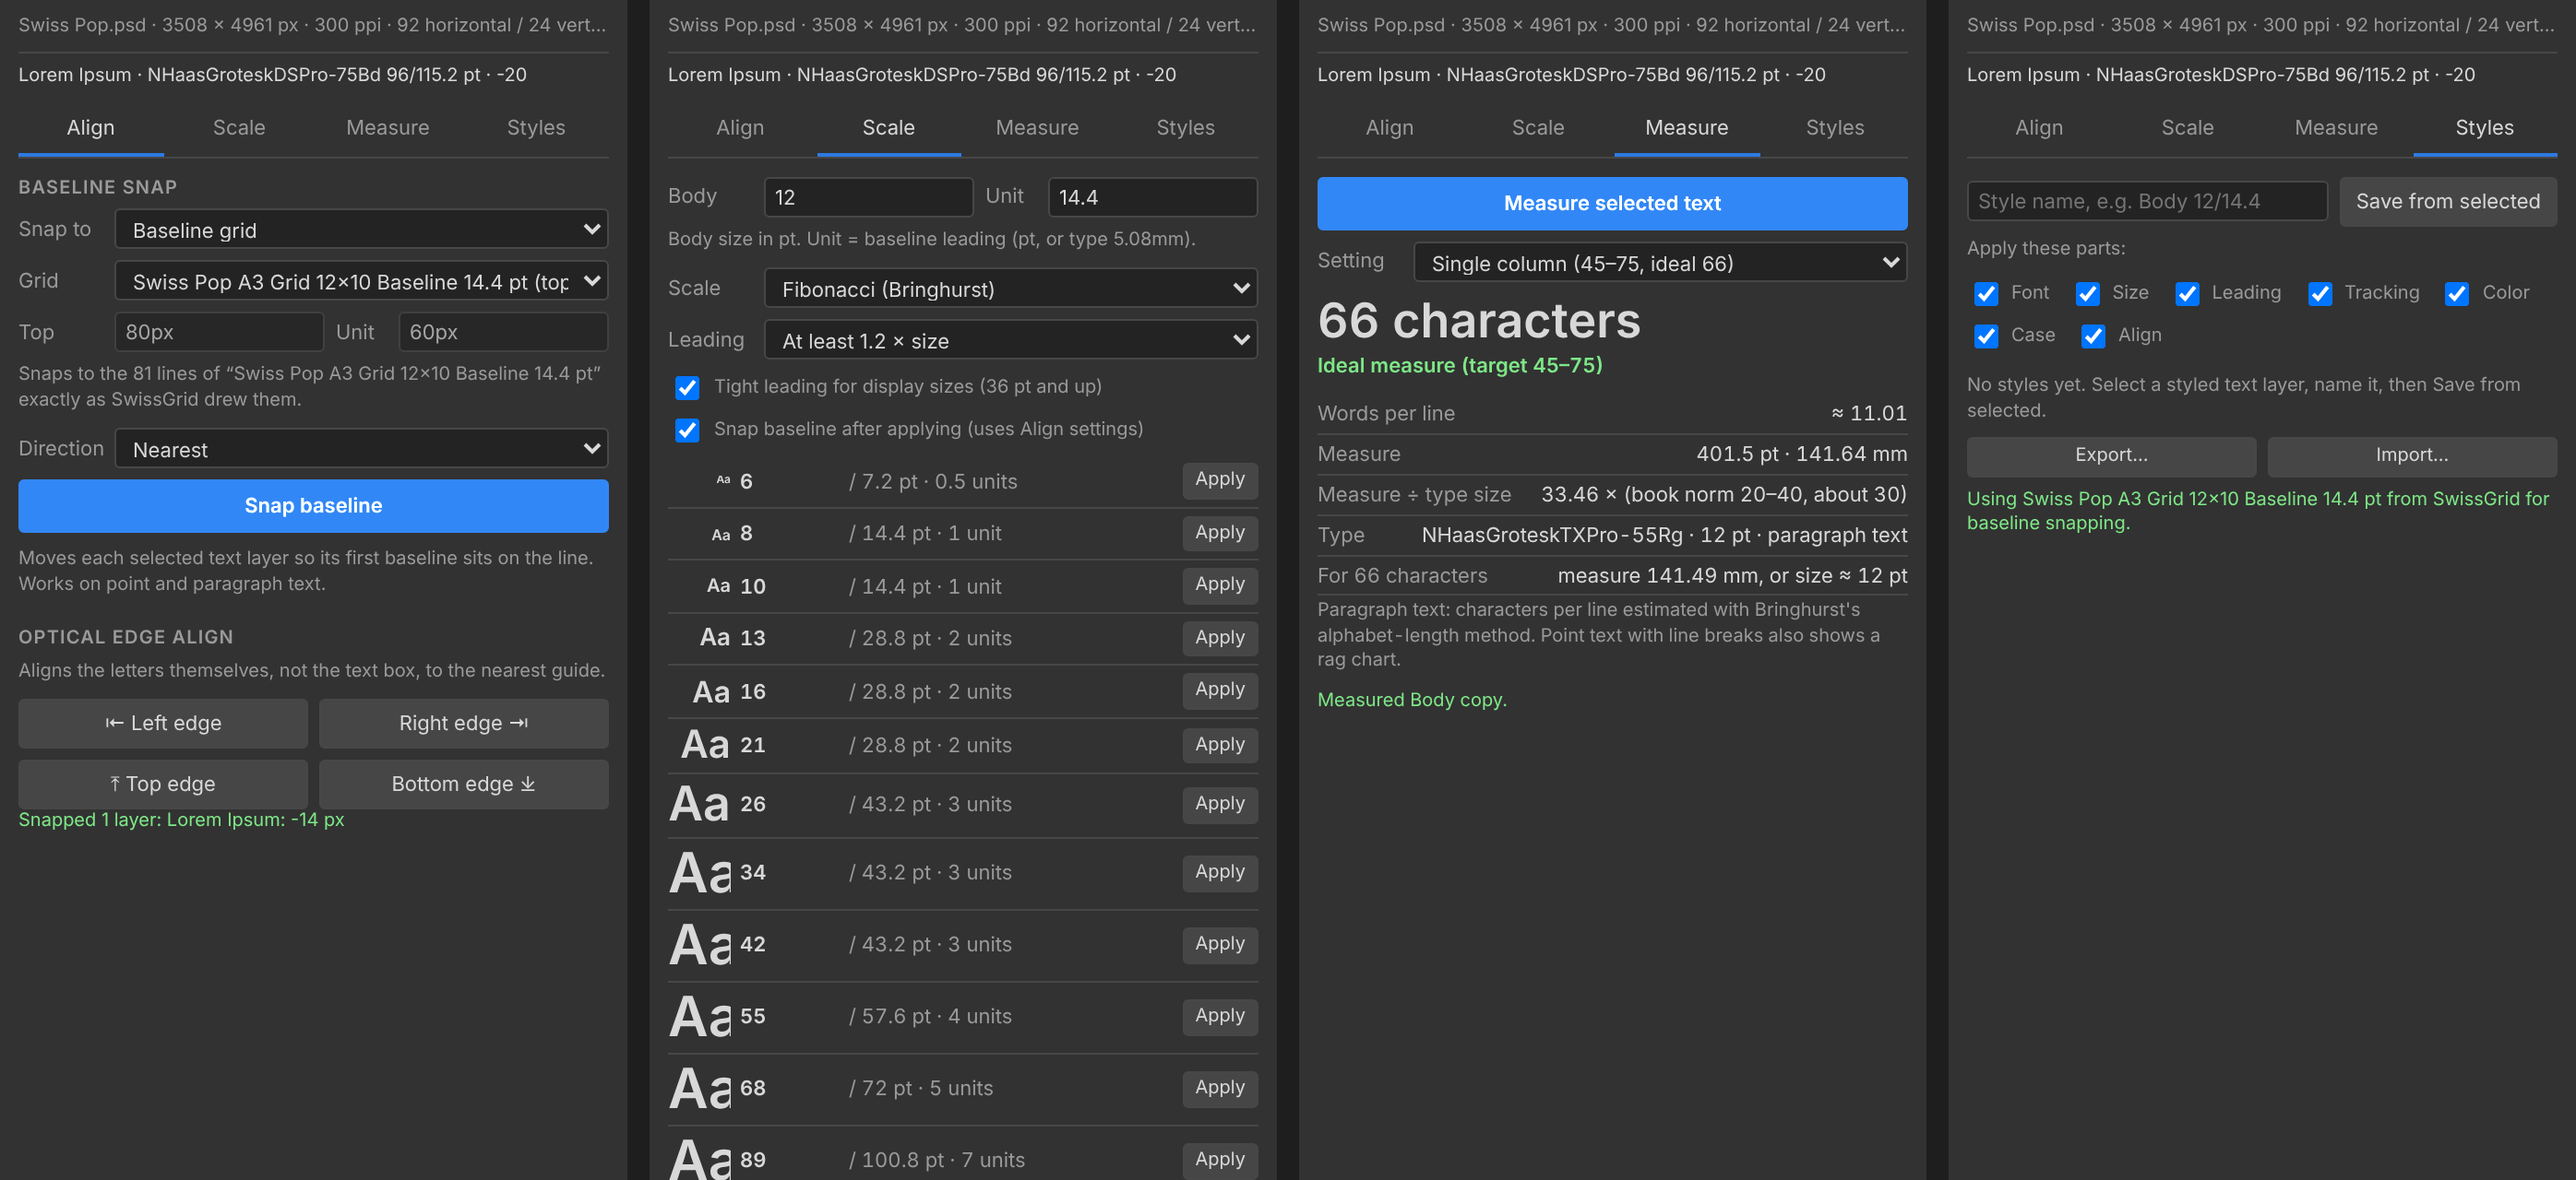
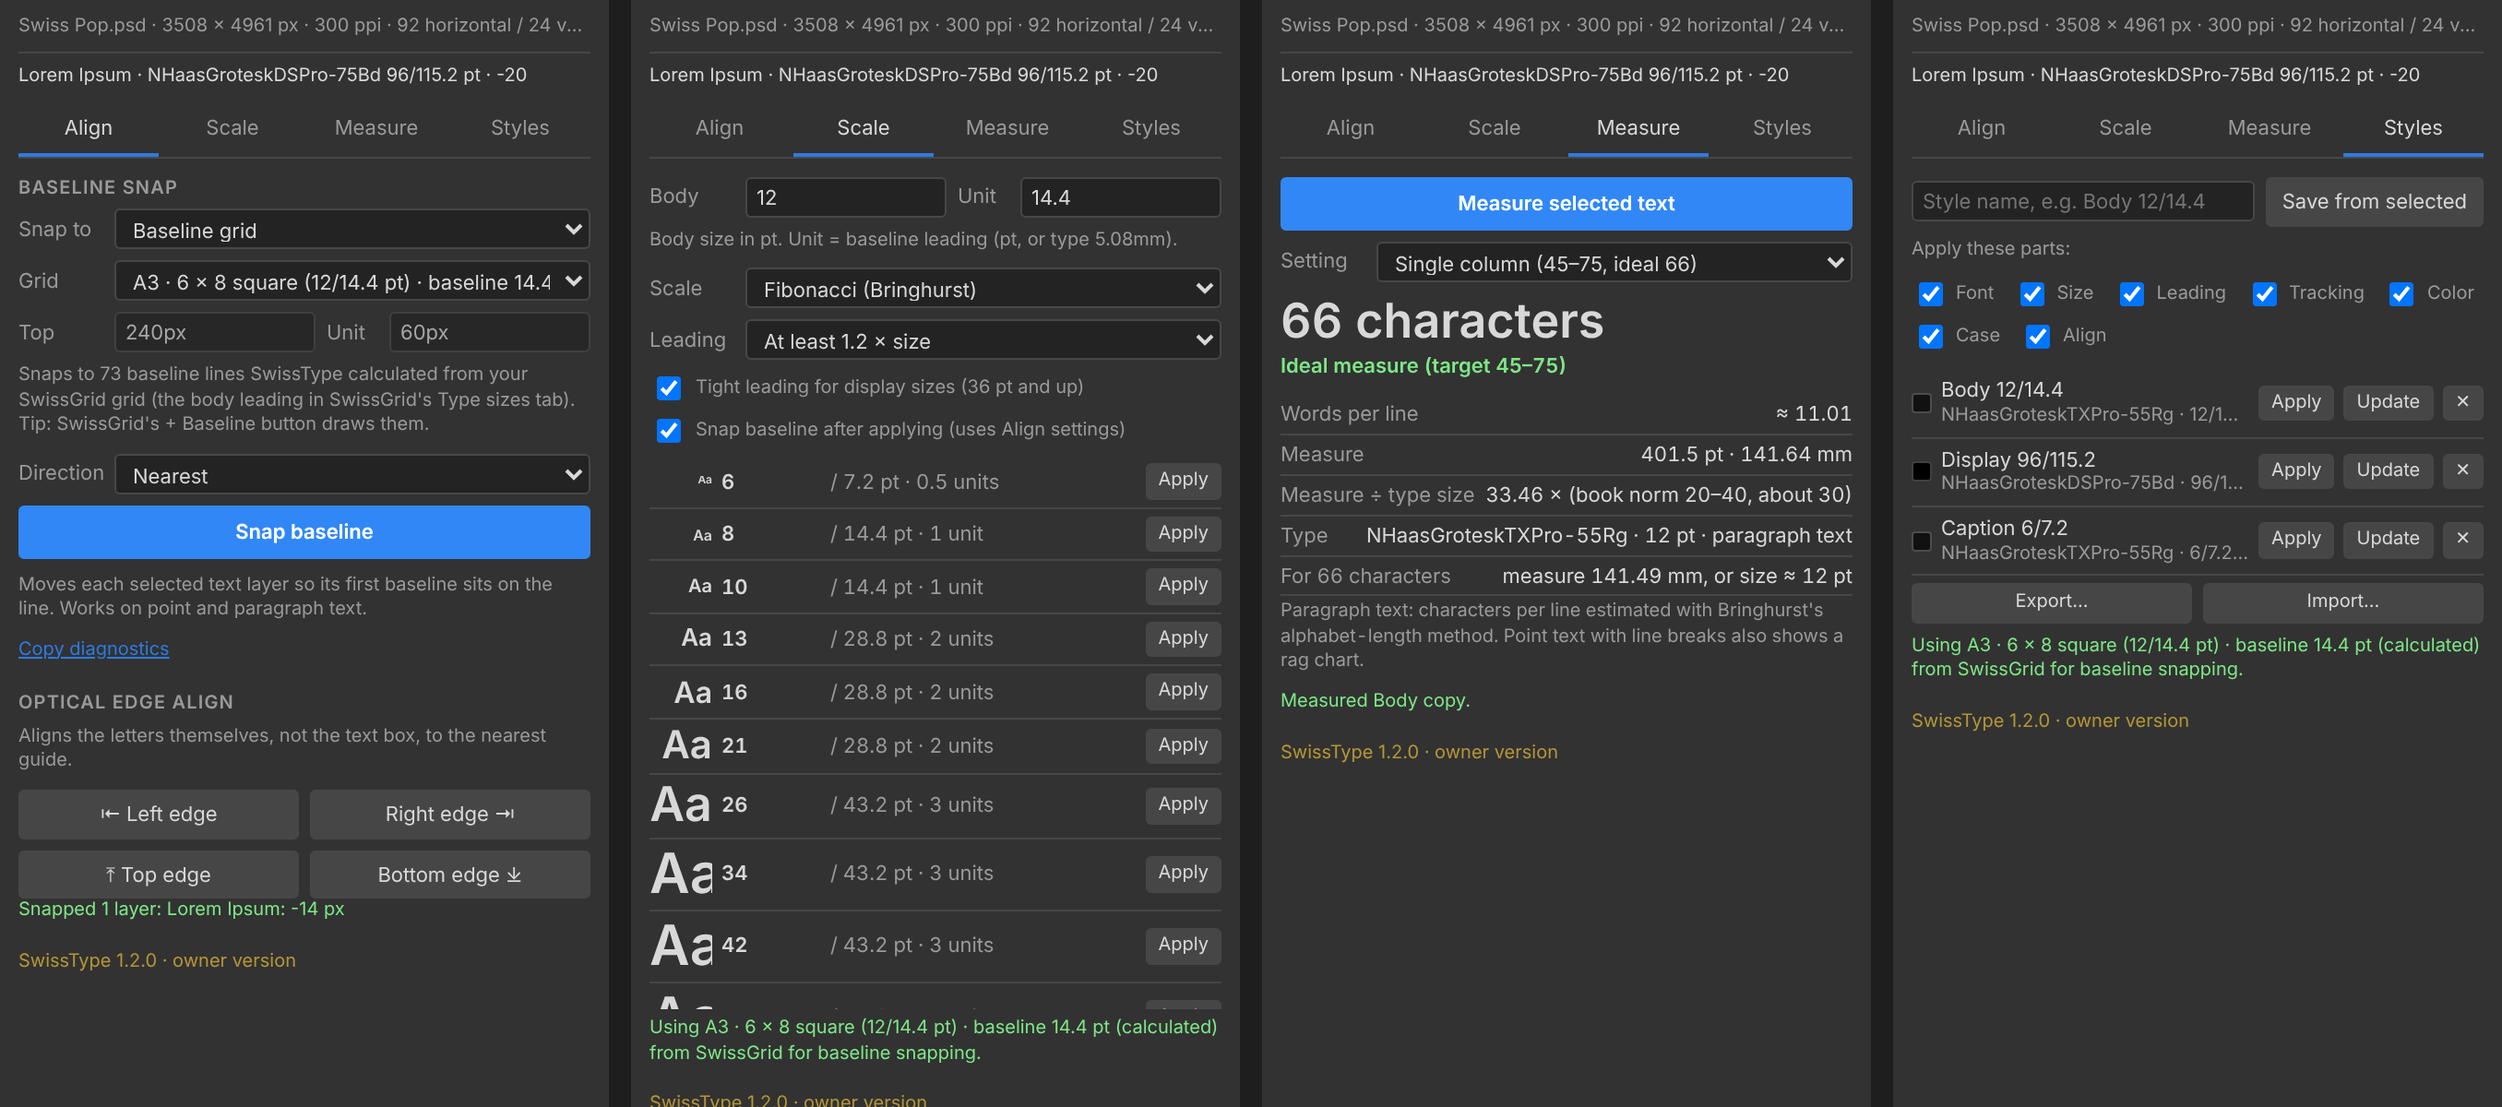
SwissGrid & SwissType 1.2.0: canvas-aware grid suggestions, grouped presets (Classic, Golden ratio & Fibonacci, Letter, A2-A5), tabbed SwissGrid, SwissType calculated baselines, new screenshots and full feature list

diff --git a/SwissGrid/SwissGrid/js/license-config.js b/SwissGrid/SwissGrid/js/license-config.js
@@ -5,11 +5,25 @@
  */
 window.SWISS_LICENSE_CONFIG = {
   product: "SwissGrid",
-  productId: "PASTE_SWISSGRID_PRODUCT_ID",          // the SwissGrid product on Gumroad
-  bundleProductId: "PASTE_BUNDLE_PRODUCT_ID",   // the Swiss Bundle product (same in both panels)
-  buyUrl: "https://YOUR-NAME.gumroad.com/l/swissgrid",
-  bundleUrl: "https://YOUR-NAME.gumroad.com/l/swiss-bundle",
-  supportEmail: "your support email",
+  productId: "kqyu7hBACgRNcyNks3CzPA==",          // the SwissGrid product on Gumroad
+  bundleProductId: "nfVe93Lt6itL4vL1wmalSQ==",   // the Swiss Bundle product (same in both panels)
+  buyUrl: "https://jmartgraphics.gumroad.com/l/swissgrid",
+  bundleUrl: "https://jmartgraphics.gumroad.com/l/swiss-bundle",
+  supportEmail: "jmartgraphics via Gumroad",
   maxActivations: 3                              // computers per key (first activation on each computer counts once)
 };
-SwissLicense.start(window.SWISS_LICENSE_CONFIG);
+// Licensing switch. OFF = owner version: everything unlocked, no key, no expiry.
+// Turn ON only when selling (the release builder does this for the Gumroad downloads).
+var SWISS_LICENSING_ON = false;
+
+if (SWISS_LICENSING_ON) {
+  SwissLicense.start(window.SWISS_LICENSE_CONFIG);
+} else {
+  (function () {
+    var v = "1.2.0";
+    var n = document.createElement("div");
+    n.textContent = "SwissGrid " + v + " \u00b7 owner version";
+    n.style.cssText = "font-size:10px;color:#d4af37;margin-top:14px;opacity:0.8";
+    (document.querySelector(".panel") || document.body).appendChild(n);
+  })();
+}

diff --git a/SwissType/SwissType/js/license-config.js b/SwissType/SwissType/js/license-config.js
@@ -5,11 +5,25 @@
  */
 window.SWISS_LICENSE_CONFIG = {
   product: "SwissType",
-  productId: "PASTE_SWISSTYPE_PRODUCT_ID",          // the SwissType product on Gumroad
-  bundleProductId: "PASTE_BUNDLE_PRODUCT_ID",   // the Swiss Bundle product (same in both panels)
-  buyUrl: "https://YOUR-NAME.gumroad.com/l/swisstype",
-  bundleUrl: "https://YOUR-NAME.gumroad.com/l/swiss-bundle",
-  supportEmail: "your support email",
+  productId: "5-grbgTq-z8ghlWoBD5eVw==",          // the SwissType product on Gumroad
+  bundleProductId: "nfVe93Lt6itL4vL1wmalSQ==",   // the Swiss Bundle product (same in both panels)
+  buyUrl: "https://jmartgraphics.gumroad.com/l/swisstype",
+  bundleUrl: "https://jmartgraphics.gumroad.com/l/swiss-bundle",
+  supportEmail: "jmartgraphics via Gumroad",
   maxActivations: 3                              // computers per key (first activation on each computer counts once)
 };
-SwissLicense.start(window.SWISS_LICENSE_CONFIG);
+// Licensing switch. OFF = owner version: everything unlocked, no key, no expiry.
+// Turn ON only when selling (the release builder does this for the Gumroad downloads).
+var SWISS_LICENSING_ON = false;
+
+if (SWISS_LICENSING_ON) {
+  SwissLicense.start(window.SWISS_LICENSE_CONFIG);
+} else {
+  (function () {
+    var v = "1.2.0";
+    var n = document.createElement("div");
+    n.textContent = "SwissType " + v + " \u00b7 owner version";
+    n.style.cssText = "font-size:10px;color:#d4af37;margin-top:14px;opacity:0.8";
+    (document.querySelector(".panel") || document.body).appendChild(n);
+  })();
+}

diff --git a/release/build_release.py b/release/build_release.py
@@ -1,5 +1,6 @@
 """
-Builds the three Gumroad downloads with your real product IDs.
+Builds the three Gumroad downloads (licensing switched ON) with your real product IDs.
+The source itself stays the owner version (licensing OFF) until you decide to sell.
 
 1. Fill in release_config.json (product IDs, links, support email).
 2. Run:  python build_release.py
@@ -8,12 +9,10 @@ Builds the three Gumroad downloads with your real product IDs.
 """
 import json, os, re, shutil, stat, sys, zipfile
 
-GOLD = "--gold" in sys.argv   # owner build: no license key, everything unlocked
 
 HERE = os.path.dirname(os.path.abspath(__file__))
 cfg = json.load(open(os.path.join(HERE, "release_config.json"), encoding="utf-8"))
 for k in ("swissgrid_product_id", "swisstype_product_id", "bundle_product_id", "support_email"):
-    if GOLD: break
     if not cfg.get(k) or cfg[k].startswith("PASTE"):
         raise SystemExit("Fill in '%s' in release_config.json first." % k)
 
@@ -41,15 +40,10 @@ def stage_panel(name):
     t = re.sub(r'bundleUrl: "[^"]*"', 'bundleUrl: "%s"' % cfg.get("bundle_url", ""), t)
     t = re.sub(r'supportEmail: "[^"]*"', 'supportEmail: "%s"' % cfg["support_email"], t)
     t = re.sub(r'maxActivations: \d+', 'maxActivations: %d' % int(cfg.get("max_activations", 3)), t)
-    if GOLD:
-        t = t.replace("SwissLicense.start(window.SWISS_LICENSE_CONFIG);", """// GOLD OWNER BUILD: licensing is switched off. Everything is unlocked, no key, no expiry.
-(function () {
-  var n = document.createElement("div");
-  n.textContent = "%s %s Gold \\u00b7 owner build";
-  n.style.cssText = "font-size:10px;color:#d4af37;margin-top:14px;opacity:0.8";
-  (document.querySelector(".panel") || document.body).appendChild(n);
-})();""" % (name, VER))
-        assert "GOLD OWNER BUILD" in t
+    # Selling build: switch licensing on (the source in the repo has it off).
+    t = t.replace("var SWISS_LICENSING_ON = false;", "var SWISS_LICENSING_ON = true;")
+    t = t.replace(" \\u00b7 owner version", "")
+    assert "var SWISS_LICENSING_ON = true;" in t
     open(conf, "w", encoding="utf-8", newline="\n").write(t)
     return dst
 
@@ -74,10 +68,7 @@ def zip_dirs(zip_name, top, folders, flatten=False):
 
 grid = stage_panel("SwissGrid")
 typ = stage_panel("SwissType")
-if GOLD:
-    zip_dirs("Swiss-Tools-GOLD-%s.zip" % VER, "Swiss Tools GOLD %s" % VER, [grid, typ])
-else:
-    zip_dirs("SwissGrid-%s.zip" % VER, "SwissGrid", [grid], flatten=True)
-    zip_dirs("SwissType-%s.zip" % VER, "SwissType", [typ], flatten=True)
-    zip_dirs("Swiss-Bundle-%s.zip" % VER, "Swiss Bundle", [grid, typ])
+zip_dirs("SwissGrid-%s.zip" % VER, "SwissGrid", [grid], flatten=True)
+zip_dirs("SwissType-%s.zip" % VER, "SwissType", [typ], flatten=True)
+zip_dirs("Swiss-Bundle-%s.zip" % VER, "Swiss Bundle", [grid, typ])
 shutil.rmtree(STAGE)

diff --git a/README.md b/README.md
@@ -4,7 +4,7 @@
 
 Built by Joseph Martinez (J.A.M.), grounded in Josef Müller-Brockmann's *Grid Systems in Graphic Design* and Robert Bringhurst's *The Elements of Typographic Style*.
 
-**Current version: 1.2.0 Gold** (owner build, no license key). See [CHANGELOG.md](CHANGELOG.md).
+**Latest version: 1.2.0.** Everything is unlocked: no license key, no expiry. This repository is the installable version: download it and run the installers. What's new: [CHANGELOG.md](CHANGELOG.md).
 
 | | |
 |---|---|
@@ -17,7 +17,7 @@ Built by Joseph Martinez (J.A.M.), grounded in Josef Müller-Brockmann's *Grid S
 
 ## SwissGrid
 
-![SwissGrid: Grid, Type sizes and Presets tabs](docs/images/swissgrid-tabs.png)
+![SwissGrid: Grid, Type sizes, Document and Presets tabs](docs/images/swissgrid-tabs.png)
 
 SwissGrid is organized in four tabs so every control stays near the top of the panel: **Grid**, **Type sizes**, **Document** and **Presets**.
 
@@ -130,7 +130,7 @@ They appear under **Window > Extensions (legacy)**, not the **Plugins** menu: Ph
 
 To update, run the installer again: it replaces the old copy. To remove, run the matching `Uninstall-*` file.
 
-**Gold owner build:** `python release/build_release.py --gold` builds `Swiss-Tools-GOLD-<version>.zip` with licensing switched off (no key, no expiry).
+There is one version: what's in this repository. Licensing is a single switch, `SWISS_LICENSING_ON` in each panel's `js/license-config.js`, and it is **off**.
 
 ### Troubleshooting
 
@@ -143,7 +143,7 @@ To update, run the installer again: it replaces the old copy. To remove, run the
 
 ## Selling later (Gumroad)
 
-The release builder also makes the Gumroad downloads (SwissGrid, SwissType and the Swiss Bundle) with license keys checked against Gumroad's license API: a SwissGrid or SwissType key unlocks its panel, a Bundle key unlocks both, keys work on up to 3 computers, re-check monthly and work offline for 14 days. Fill in `release/release_config.json` and run `python release/build_release.py`. This is switched off in the Gold build.
+Not shipping yet. When it's time, `python release/build_release.py` makes the three Gumroad downloads (SwissGrid, SwissType and the Swiss Bundle) with the licensing switch turned **on**: keys are checked against Gumroad's license API, a SwissGrid or SwissType key unlocks its panel, a Bundle key unlocks both, keys work on up to 3 computers, re-check monthly and work offline for 14 days. The code in this repository stays unlocked.
 
 ---
 
@@ -162,7 +162,7 @@ SwissGrid/
     js/suggest.js         canvas detection and grid suggestions
     js/gridstore.js       grids shared with SwissType
     js/cepfix.js          scrolling that works in every CEP version
-    js/license.js         Gumroad licensing (off in Gold builds)
+    js/license.js         Gumroad licensing (switched off; see license-config.js)
     js/panel.js           the panel
     jsx/host.jsx          Photoshop side: guides, colored layers, type, metadata
 SwissType/

diff --git a/CHANGELOG.md b/CHANGELOG.md
@@ -1,8 +1,8 @@
 # Changelog
 
-## 1.2.0 Gold (2026-10-23)
+## 1.2.0 (2026-10-23)
 
-Owner production build. Licensing switched off.
+Everything unlocked: licensing switched off (one switch, `SWISS_LICENSING_ON`). The repository is the installable version.
 
 **SwissGrid**
 - New: **Suggested grid** in the Grid tab. Recognizes the canvas (A0 to A6, B4, B5, Letter, Legal, Tabloid, square, screen sizes), suggests a Swiss grid with margins, gutters and fields in whole baseline lines, and steps Looser / Denser from 1 to 12 columns. Field shapes: square, golden tall, golden wide, Fibonacci. Thumbnail preview, specs, Apply suggestion and Edit in fields.
